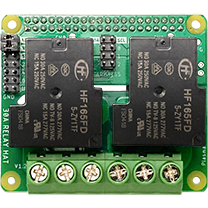
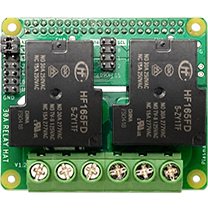
Updated board images
Added Applicance HAT board image, updated 30A Relay HAT board image to better match the others.

diff --git a/MCP23008/index.html b/MCP23008/index.html
@@ -101,7 +101,7 @@
                     <h2>Boards</h2>
                     <ul class="boards">
                         <li><a href="/30arelayhat/"><img src="../gui/30arelayhat/img/board.png" alt="30A Relay HAT"><span>30A Relay HAT</span></a></li>
-                        <li><a href="/appliancehat/"><img src="../gui/src/img/board.png" alt="Appliance HAT"><span>Appliance HAT</span></a></li>
+                        <li><a href="/appliancehat/"><img src="../gui/appliancehat/img/board.png" alt="Appliance HAT"><span>Appliance HAT</span></a></li>
                         <li><a href="/appliancehatmini/"><img src="../gui/src/img/board.png" alt="Appliance HAT Mini"><span>Appliance HAT Mini</span></a></li>
                         <li><a href="/ctrlhat/"><img src="../gui/ctrlhat/img/board.png" alt="CTRL HAT"><span>CTRL HAT</span></a></li>
                     </ul>

diff --git a/index.html b/index.html
@@ -127,7 +127,7 @@
                     <h2>Boards</h2>
                     <ul class="boards">
                         <li><a href="/30arelayhat/"><img src="gui/30arelayhat/img/board.png" alt="30A Relay HAT"><span>30A Relay HAT</span></a></li>
-                        <li><a href="/appliancehat/"><img src="gui/src/img/board.png" alt="Appliance HAT"><span>Appliance HAT</span></a></li>
+                        <li><a href="/appliancehat/"><img src="gui/appliancehat/img/board.png" alt="Appliance HAT"><span>Appliance HAT</span></a></li>
                         <li><a href="/appliancehatmini/"><img src="gui/src/img/board.png" alt="Appliance HAT Mini"><span>Appliance HAT Mini</span></a></li>
                         <li><a href="/ctrlhat/"><img src="gui/ctrlhat/img/board.png" alt="CTRL HAT"><span>CTRL HAT</span></a></li>
                     </ul>

diff --git a/appliancehat/index.html b/appliancehat/index.html
@@ -157,7 +157,7 @@
                                     </ul>
                                 </td>
                                 <td>
-                                    <img src="../gui/src/img/board.png" alt="Appliance HAT">
+                                    <img src="../gui/appliancehat/img/board.png" alt="Appliance HAT">
                                 </td>
                             </tr>
                         </tbody>
